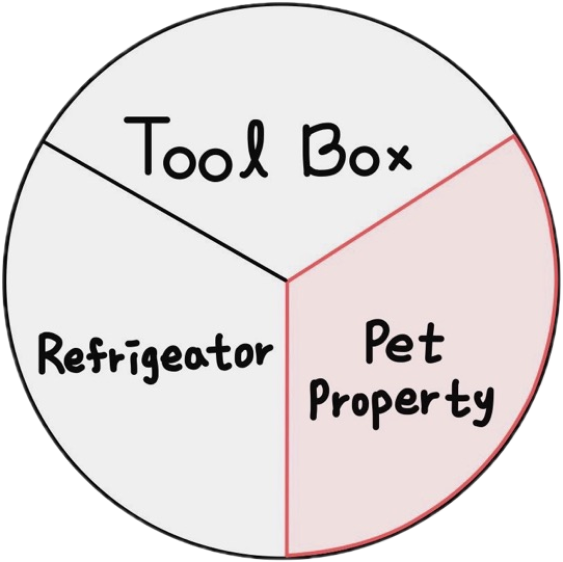
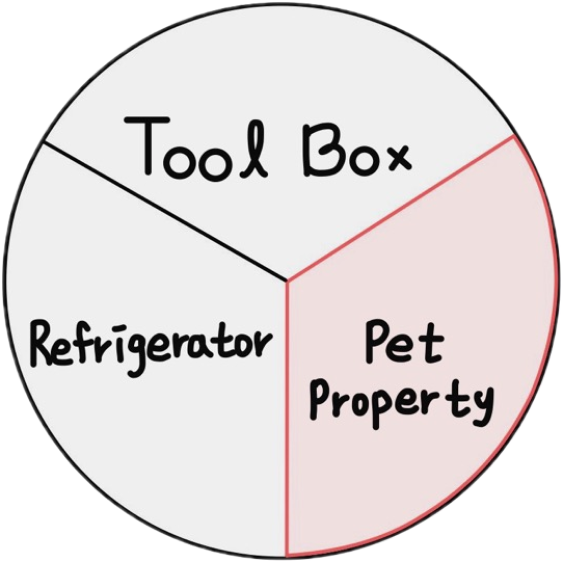
Yeaseul Lim
중간 저장

Changed region(s): [[0.0302, 0.5445, 0.4831, 0.6957]]

diff --git a/CS230_JunhyeongKim/CS230/Game/Operation.cpp b/CS230_JunhyeongKim/CS230/Game/Operation.cpp
@@ -7,6 +7,20 @@ int Operation::wheel = 0;
 bool Operation::leftClick = false;
 bool Operation::rightClick = false;
 
+void Operation::Load()
+{
+	matrix *= Math::TranslationMatrix(Engine::GetWindow().GetSize());
+	operationTexture.push_back(Engine::GetTextureManager().Load("Assets/Toolbox.png"));
+	operationTexture.push_back(Engine::GetTextureManager().Load("Assets/PetProperty.png"));
+	operationTexture.push_back(Engine::GetTextureManager().Load("Assets/Refrigerator.png"));
+	operationTexture.push_back(Engine::GetTextureManager().Load("Assets/Hand.png"));
+	operationTexture.push_back(Engine::GetTextureManager().Load("Assets/Knife.png"));
+	operationTexture.push_back(Engine::GetTextureManager().Load("Assets/Ladle.png"));
+	operationTexture.push_back(Engine::GetTextureManager().Load("Assets/Scoop.png"));
+	operationTexture.push_back(Engine::GetTextureManager().Load("Assets/TrashCan.png"));
+	operationTexture.push_back(Engine::GetTextureManager().Load("Assets/Fire.png"));
+	operationTexture.push_back(Engine::GetTextureManager().Load("Assets/Water.png"));
+}
 
 void on_mouse_wheel(int scroll_amount)
 {
@@ -49,58 +63,49 @@ void on_mouse_released(doodle::MouseButtons button)
 	}
 }
 
+
+
 void Inventory::Draw()
 {
 	inventory += wheel;
 	wheel = 0;
 
-	doodle::push_settings();
-	std::string text;
 	switch (inventory)
 	{
 	case InventoryName::ToolBox:
-		text = "ToolBox";
+		operationTexture[static_cast<int>(InventoryTexture::ToolBox)]->Draw(matrix);
 		break;
 	case InventoryName::Refrigerator:
-		text = "Refrigerator";
+		operationTexture[static_cast<int>(InventoryTexture::Refrigerator)]->Draw(matrix);
 		break;
 	case InventoryName::PetProperty:
-		text = "PetProperty";
+		operationTexture[static_cast<int>(InventoryTexture::PetProperty)]->Draw(matrix);
 		break;
 	}
-	doodle::set_font_size(20);
-	doodle::draw_text(text, doodle::get_mouse_x(), doodle::get_mouse_y());
-	doodle::pop_settings();
-}
 
 void ToolBox::Draw()
 {
 	tool += wheel;
 	wheel = 0;
 
-	doodle::push_settings();
-	std::string text;
 	switch (tool)
 	{
 	case ToolName::HAND:
-		text = "HAND";
+		operationTexture[static_cast<int>(InventoryTexture::Hand)]->Draw(matrix);
 		break;
 	case ToolName::KNIFE:
-		text = "KNIFE";
+		operationTexture[static_cast<int>(InventoryTexture::Knife)]->Draw(matrix);
 		break;
 	case ToolName::LADLE:
-		text = "LADLE";
+		operationTexture[static_cast<int>(InventoryTexture::Ladle)]->Draw(matrix);
 		break;
 	case ToolName::SCOOP:
-		text = "SCOOP";
+		operationTexture[static_cast<int>(InventoryTexture::Scoop)]->Draw(matrix);
 		break;
 	case ToolName::TRASHCAN:
-		text = "TRASHCAN";
+		operationTexture[static_cast<int>(InventoryTexture::TrashCan)]->Draw(matrix);
 		break;
 	}
-	doodle::set_font_size(20);
-	doodle::draw_text(text, doodle::get_mouse_x(), doodle::get_mouse_y());
-	doodle::pop_settings();
 }
 
 void Refrigerator::Draw()
@@ -123,20 +128,15 @@ void PetProperty::Draw()
 	property += wheel;
 	wheel = 0;
 
-	doodle::push_settings();
-	std::string text;
 	switch (property)
 	{
 	case PetPropertyName::FIRE:
-		text = "FIRE";
+		operationTexture[static_cast<int>(InventoryTexture::Fire)]->Draw(matrix);
 		break;
 	case PetPropertyName::WATER:
-		text = "WATER";
+		operationTexture[static_cast<int>(InventoryTexture::Water)]->Draw(matrix);
 		break;
 	}
-	doodle::set_font_size(20);
-	doodle::draw_text(text, doodle::get_mouse_x(), doodle::get_mouse_y());
-	doodle::pop_settings();
 }
 
 void Inventory::Update()

diff --git a/CS230_JunhyeongKim/CS230/Game/Operation.h b/CS230_JunhyeongKim/CS230/Game/Operation.h
@@ -3,11 +3,12 @@
 #include "ToolName.h"
 #include "IngredientName.h"
 #include "PetPropertyName.h"
+#include "..\Engine\Texture.h"
 
 class Operation
 {
 public:
-	Operation(){}
+	virtual void Load() = 0;
 	virtual void Update() = 0;
 	virtual void Draw() = 0;
 
@@ -17,13 +18,14 @@ public:
 
 private:
 	InventoryName clickInventory;
-
+	CS230::Texture* operationTexture;
 };
 
 class Inventory : public Operation
 {
 public:
-	Inventory() : Operation(){}
+	Inventory();
+	void Load() override;
 	void Draw() override;
 	void Update() override;
 	InventoryName Return() { return inventory; }
@@ -34,7 +36,8 @@ private:
 class ToolBox : public Operation
 {
 public:
-	ToolBox(){}
+	ToolBox();
+	void Load() override;
 	void Draw() override;
 	void Update() override;
 	ToolName Return() { return tool; }
@@ -45,7 +48,8 @@ private:
 class Refrigerator : public Operation
 {
 public:
-	Refrigerator(){}
+	Refrigerator();
+	void Load() override;
 	void Draw() override;
 	void Update() override;
 	IngredientName Return() { return ingredient; }
@@ -56,7 +60,8 @@ private:
 class PetProperty : public Operation
 {
 public:
-	PetProperty(){}
+	PetProperty();
+	void Load() override;
 	void Draw() override;
 	void Update() override;
 	PetPropertyName Return() { return property; }

diff --git a/CS230_JunhyeongKim/CS230/Game/InventoryManager.cpp b/CS230_JunhyeongKim/CS230/Game/InventoryManager.cpp
@@ -1,4 +1,9 @@
 #include "InventoryManager.h"
+#include "doodle/input.hpp"
+
+int InventoryManager::wheel = 0;
+bool InventoryManager::leftClick = false;
+bool InventoryManager::rightClick = false;
 
 InventoryManager::InventoryManager()
 {
@@ -6,4 +11,55 @@ InventoryManager::InventoryManager()
 	operation.push_back(new ToolBox());
 	operation.push_back(new PetProperty());
 	operation.push_back(new Refrigerator());
+}
+
+void InventoryManager::Draw()
+{
+	
+}
+
+void InventoryManager::Update()
+{
+	
+}
+
+void on_mouse_wheel(int scroll_amount)
+{
+	if (scroll_amount > 0)
+	{
+		InventoryManager::wheel = 1;
+	}
+	else if (scroll_amount < 0)
+	{
+		InventoryManager::wheel = -1;
+	}
+	else
+	{
+		InventoryManager::wheel = 0;
+	}
+}
+
+void on_mouse_pressed(doodle::MouseButtons button)
+{
+	if (button == doodle::MouseButtons::Right)
+	{
+		InventoryManager::rightClick = true;
+	}
+	else if (button == doodle::MouseButtons::Left)
+	{
+		InventoryManager::leftClick = true;
+	}
+
+}
+
+void on_mouse_released(doodle::MouseButtons button)
+{
+	if (button == doodle::MouseButtons::Right)
+	{
+		Operation::rightClick = false;
+	}
+	else if (button == doodle::MouseButtons::Left)
+	{
+		Operation::leftClick = false;
+	}
 }

diff --git a/CS230_JunhyeongKim/CS230/Game/Cook.h b/CS230_JunhyeongKim/CS230/Game/Cook.h
@@ -15,5 +15,5 @@ private:
     std::vector<Cook> cooks;
     std::vector<Ingredient*> ingredients;
     std::vector<Tool*> tools;
-    std::vector<InventoryManager> inventoryManager;
+    InventoryManager inventoryManager;
 };

diff --git a/CS230_JunhyeongKim/CS230/Game/InventoryTexture.h b/CS230_JunhyeongKim/CS230/Game/InventoryTexture.h
@@ -1,0 +1,15 @@
+#pragma once
+enum class InventoryTexture
+{
+	ToolBox,
+	PetProperty,
+	Refrigerator,
+	Hand,
+	Knife,
+	Ladle,
+	Scoop,
+	TrashCan,
+	Fire,
+	Water,
+	Ingredient
+};

diff --git a/CS230_JunhyeongKim/CS230/Game/IngredientName.h b/CS230_JunhyeongKim/CS230/Game/IngredientName.h
@@ -7,5 +7,6 @@ enum class IngredientName
 	Leaf,
 	Salt,
 	DragonFruit,
-	MermaidScales
+	MermaidScales,
+	Nothing
 };
